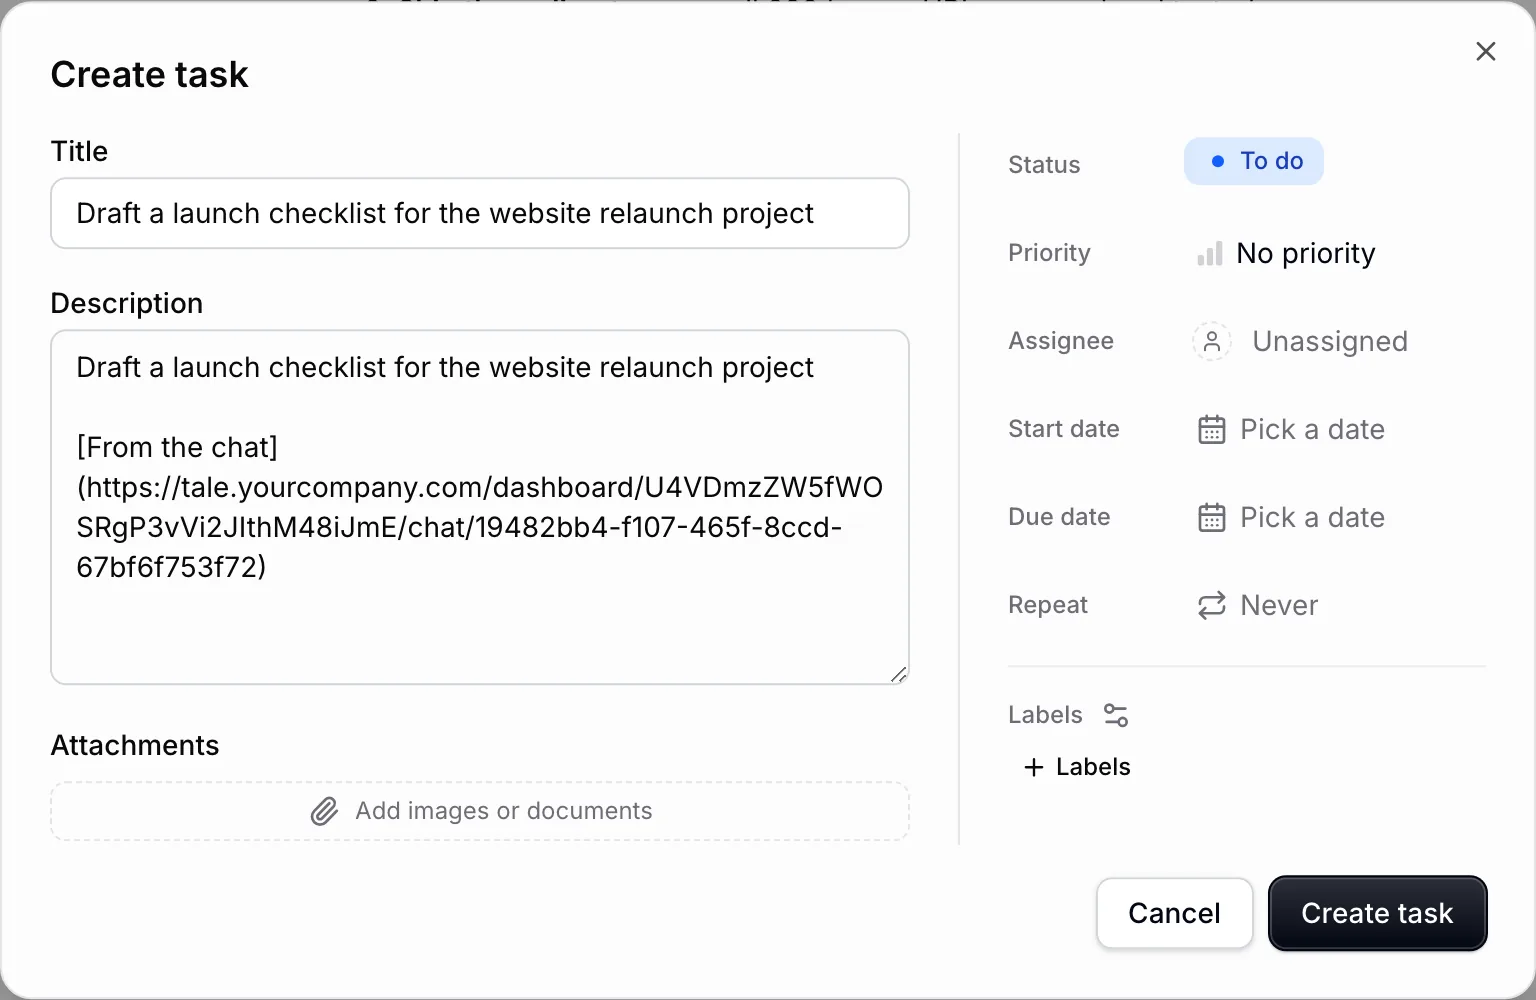
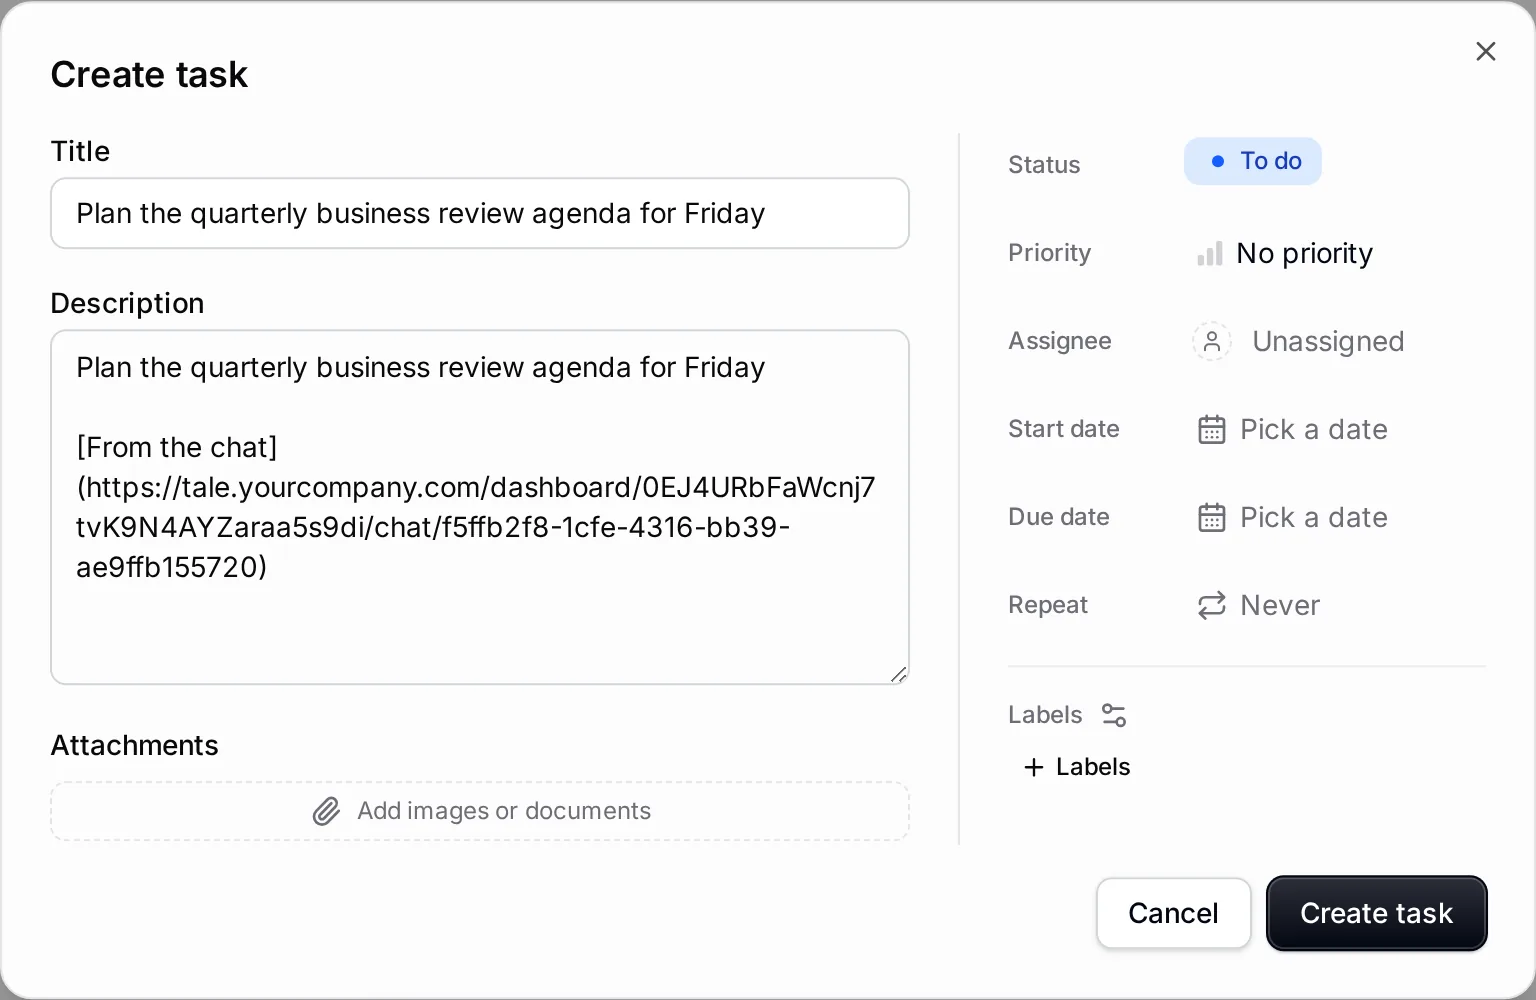
docs(docs): draft the Create task shot from a chat the seed still holds
The chat-create-task shot from #3946 picked DEMO_CHAT_PROMPTS[1], the
launch checklist on main. This branch's seed replaced that prompt (the
arena shot asks it in a chat of its own), so on the merged code the shot
drafted the task from "Which customers mentioned pricing concerns?"
while the EN, DE and FR alt text still named the launch checklist. Name
the chat by its words instead: the quarterly business review agenda, a
request that ends in a file as the section describes, drafted with the
same "From the chat" link. Retake the shot and update the alt text in
all three locales.

diff --git a/services/platform/tests/docs-screenshots/manifest.ts b/services/platform/tests/docs-screenshots/manifest.ts
@@ -107,7 +107,13 @@ function escapeRegExp(text: string): string {
 }
 
 const FEEDBACK_PROMPT = DEMO_CHAT_PROMPTS[0];
-const LAUNCH_CHECKLIST_PROMPT = DEMO_CHAT_PROMPTS[1];
+/**
+ * A chat that ends in work needing a file, handed to a project agent. Named
+ * by its words, not its place in the seed list: the launch checklist is no
+ * seeded chat any more (`chat-arena-split` asks it in a chat of its own).
+ */
+const TASK_HANDOFF_PROMPT =
+  'Plan the quarterly business review agenda for Friday';
 
 /** The Confidentiality notice section on Governance > Policies & Limits. */
 const dataNoticeSection = (page: Page): Locator =>
@@ -699,7 +705,7 @@ export const SHOTS: readonly Shot[] = [
     section: 'platform',
     route: '/dashboard/:orgId/chat',
     prepare: async (page, ctx) => {
-      await page.goto(chatThreadRoute(ctx, LAUNCH_CHECKLIST_PROMPT), {
+      await page.goto(chatThreadRoute(ctx, TASK_HANDOFF_PROMPT), {
         waitUntil: 'domcontentloaded',
       });
       await page

diff --git a/docs/de/platform/chat/basics.md b/docs/de/platform/chat/basics.md
@@ -65,7 +65,7 @@ Endet ein Gespräch in Arbeit, die eine Datei braucht, etwa eine Präsentation, 
 
 <Frame caption="Aufgabe aus Chat erstellen öffnet den Aufgabendialog mit der Anfrage und einem Link zurück zum Chat.">
 
-![Der Dialog zum Erstellen einer Aufgabe enthält als Titel und Beschreibung „Draft a launch checklist for the website relaunch project“ und unter der Anfrage einen Link mit der Beschriftung From the chat.](/images/platform/chat-create-task.webp)
+![Der Dialog zum Erstellen einer Aufgabe enthält als Titel und Beschreibung „Plan the quarterly business review agenda for Friday“ und unter der Anfrage einen Link mit der Beschriftung From the chat.](/images/platform/chat-create-task.webp)
 
 </Frame>
 

diff --git a/docs/fr/platform/chat/basics.md b/docs/fr/platform/chat/basics.md
@@ -65,7 +65,7 @@ Quand une conversation aboutit à un travail qui demande un fichier, par exemple
 
 <Frame caption="Créer une tâche depuis le chat ouvre la boîte de dialogue de la tâche avec la demande et un lien vers le chat.">
 
-![La boîte de dialogue de création de tâche contient comme titre et description « Draft a launch checklist for the website relaunch project » et, sous la demande, un lien intitulé From the chat.](/images/platform/chat-create-task.webp)
+![La boîte de dialogue de création de tâche contient comme titre et description « Plan the quarterly business review agenda for Friday » et, sous la demande, un lien intitulé From the chat.](/images/platform/chat-create-task.webp)
 
 </Frame>
 

diff --git a/docs/en/platform/chat/basics.md b/docs/en/platform/chat/basics.md
@@ -65,7 +65,7 @@ When a conversation ends in work that needs a file, such as a presentation, a re
 
 <Frame caption="Create task from chat opens the task dialog with the request and a link back to the chat.">
 
-![The Create task dialog holds the title and description "Draft a launch checklist for the website relaunch project" and, below the request, a link labelled From the chat.](/images/platform/chat-create-task.webp)
+![The Create task dialog holds the title and description "Plan the quarterly business review agenda for Friday" and, below the request, a link labelled From the chat.](/images/platform/chat-create-task.webp)
 
 </Frame>
 
